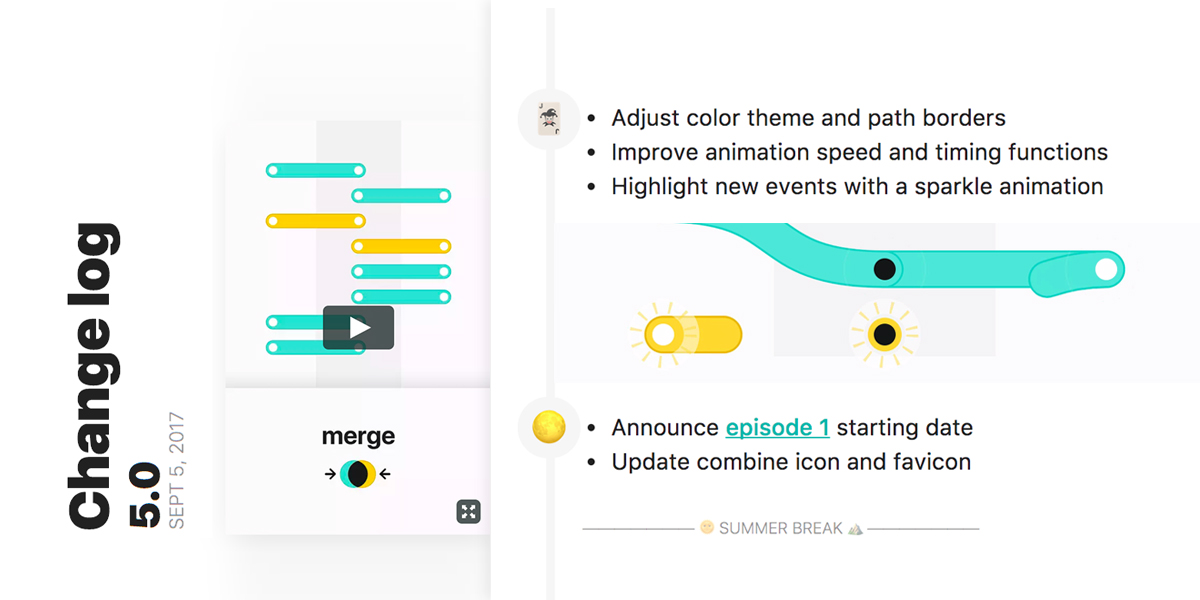
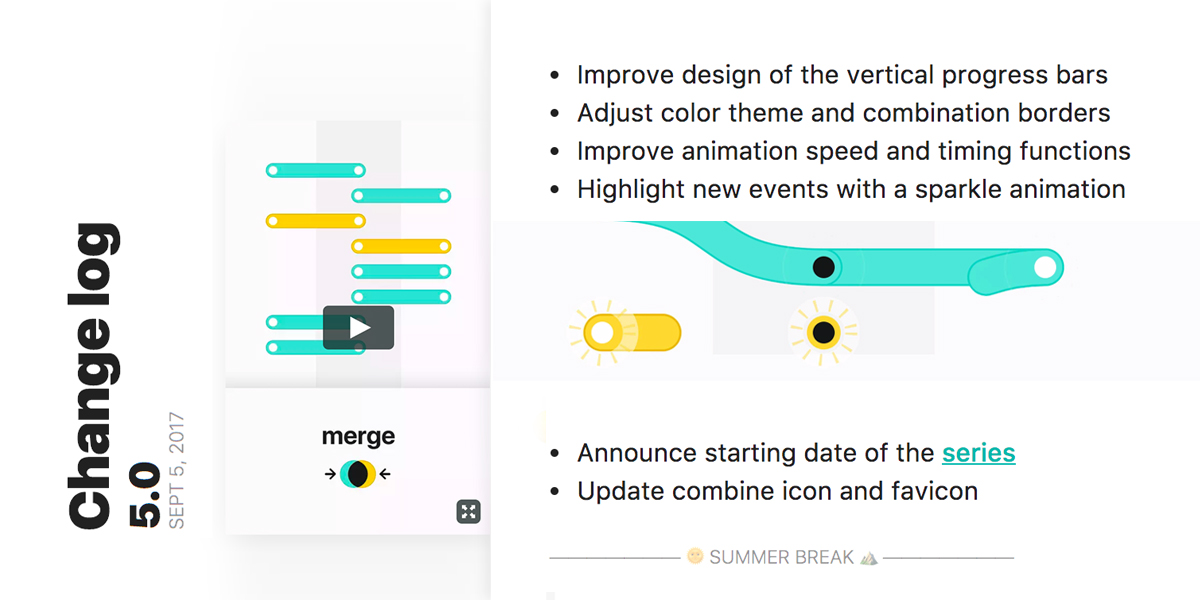
Fix CHANGELOG

diff --git a/CHANGELOG.md b/CHANGELOG.md
@@ -17,14 +17,15 @@ preview_image: changelog_preview.jpg
 [![](img/changelog/5.0.png)](http://reactive.how)
 
 ### 🃏
-- Adjust color theme and path borders
+- Improve design of the vertical progress bars
+- Adjust color theme and combination borders
 - Improve animation speed and timing functions
 - Highlight new events with a sparkle animation
 
 ![](img/changelog/5.0.gif)
 
 ### 🌕
-- Announce [episode 1](http://reactive.how) starting date
+- Announce starting date of the [series](http://reactive.how)
 - Update combine icon and favicon
 
 
